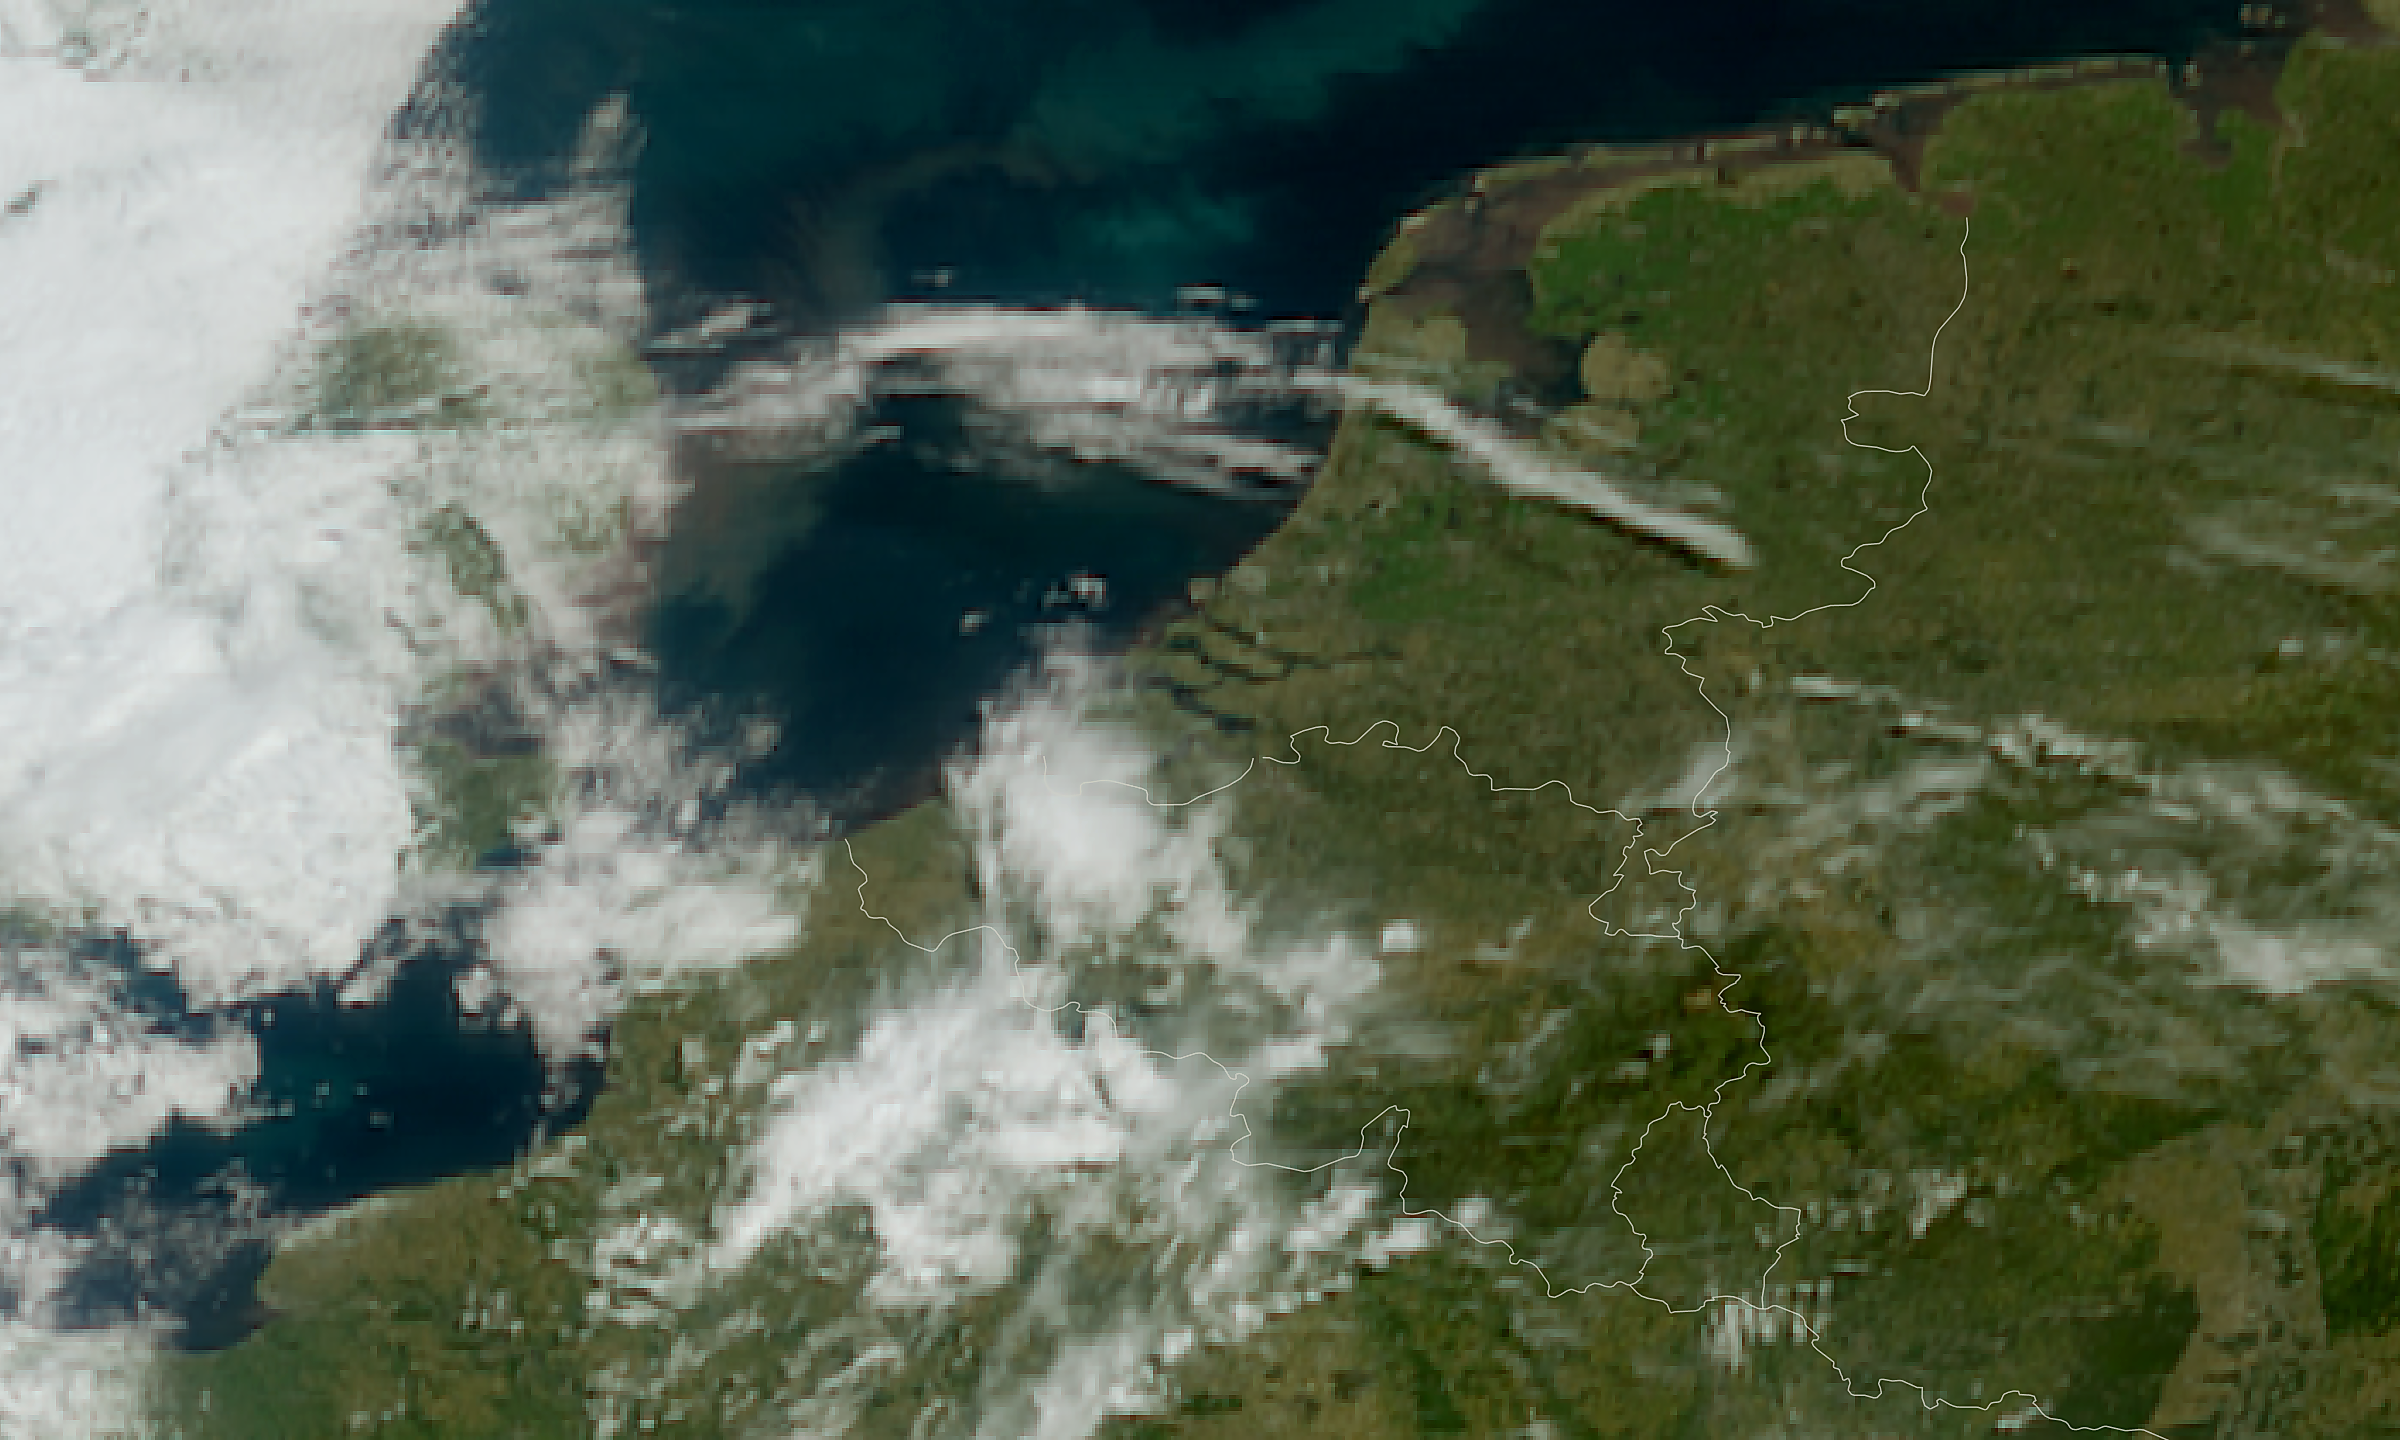
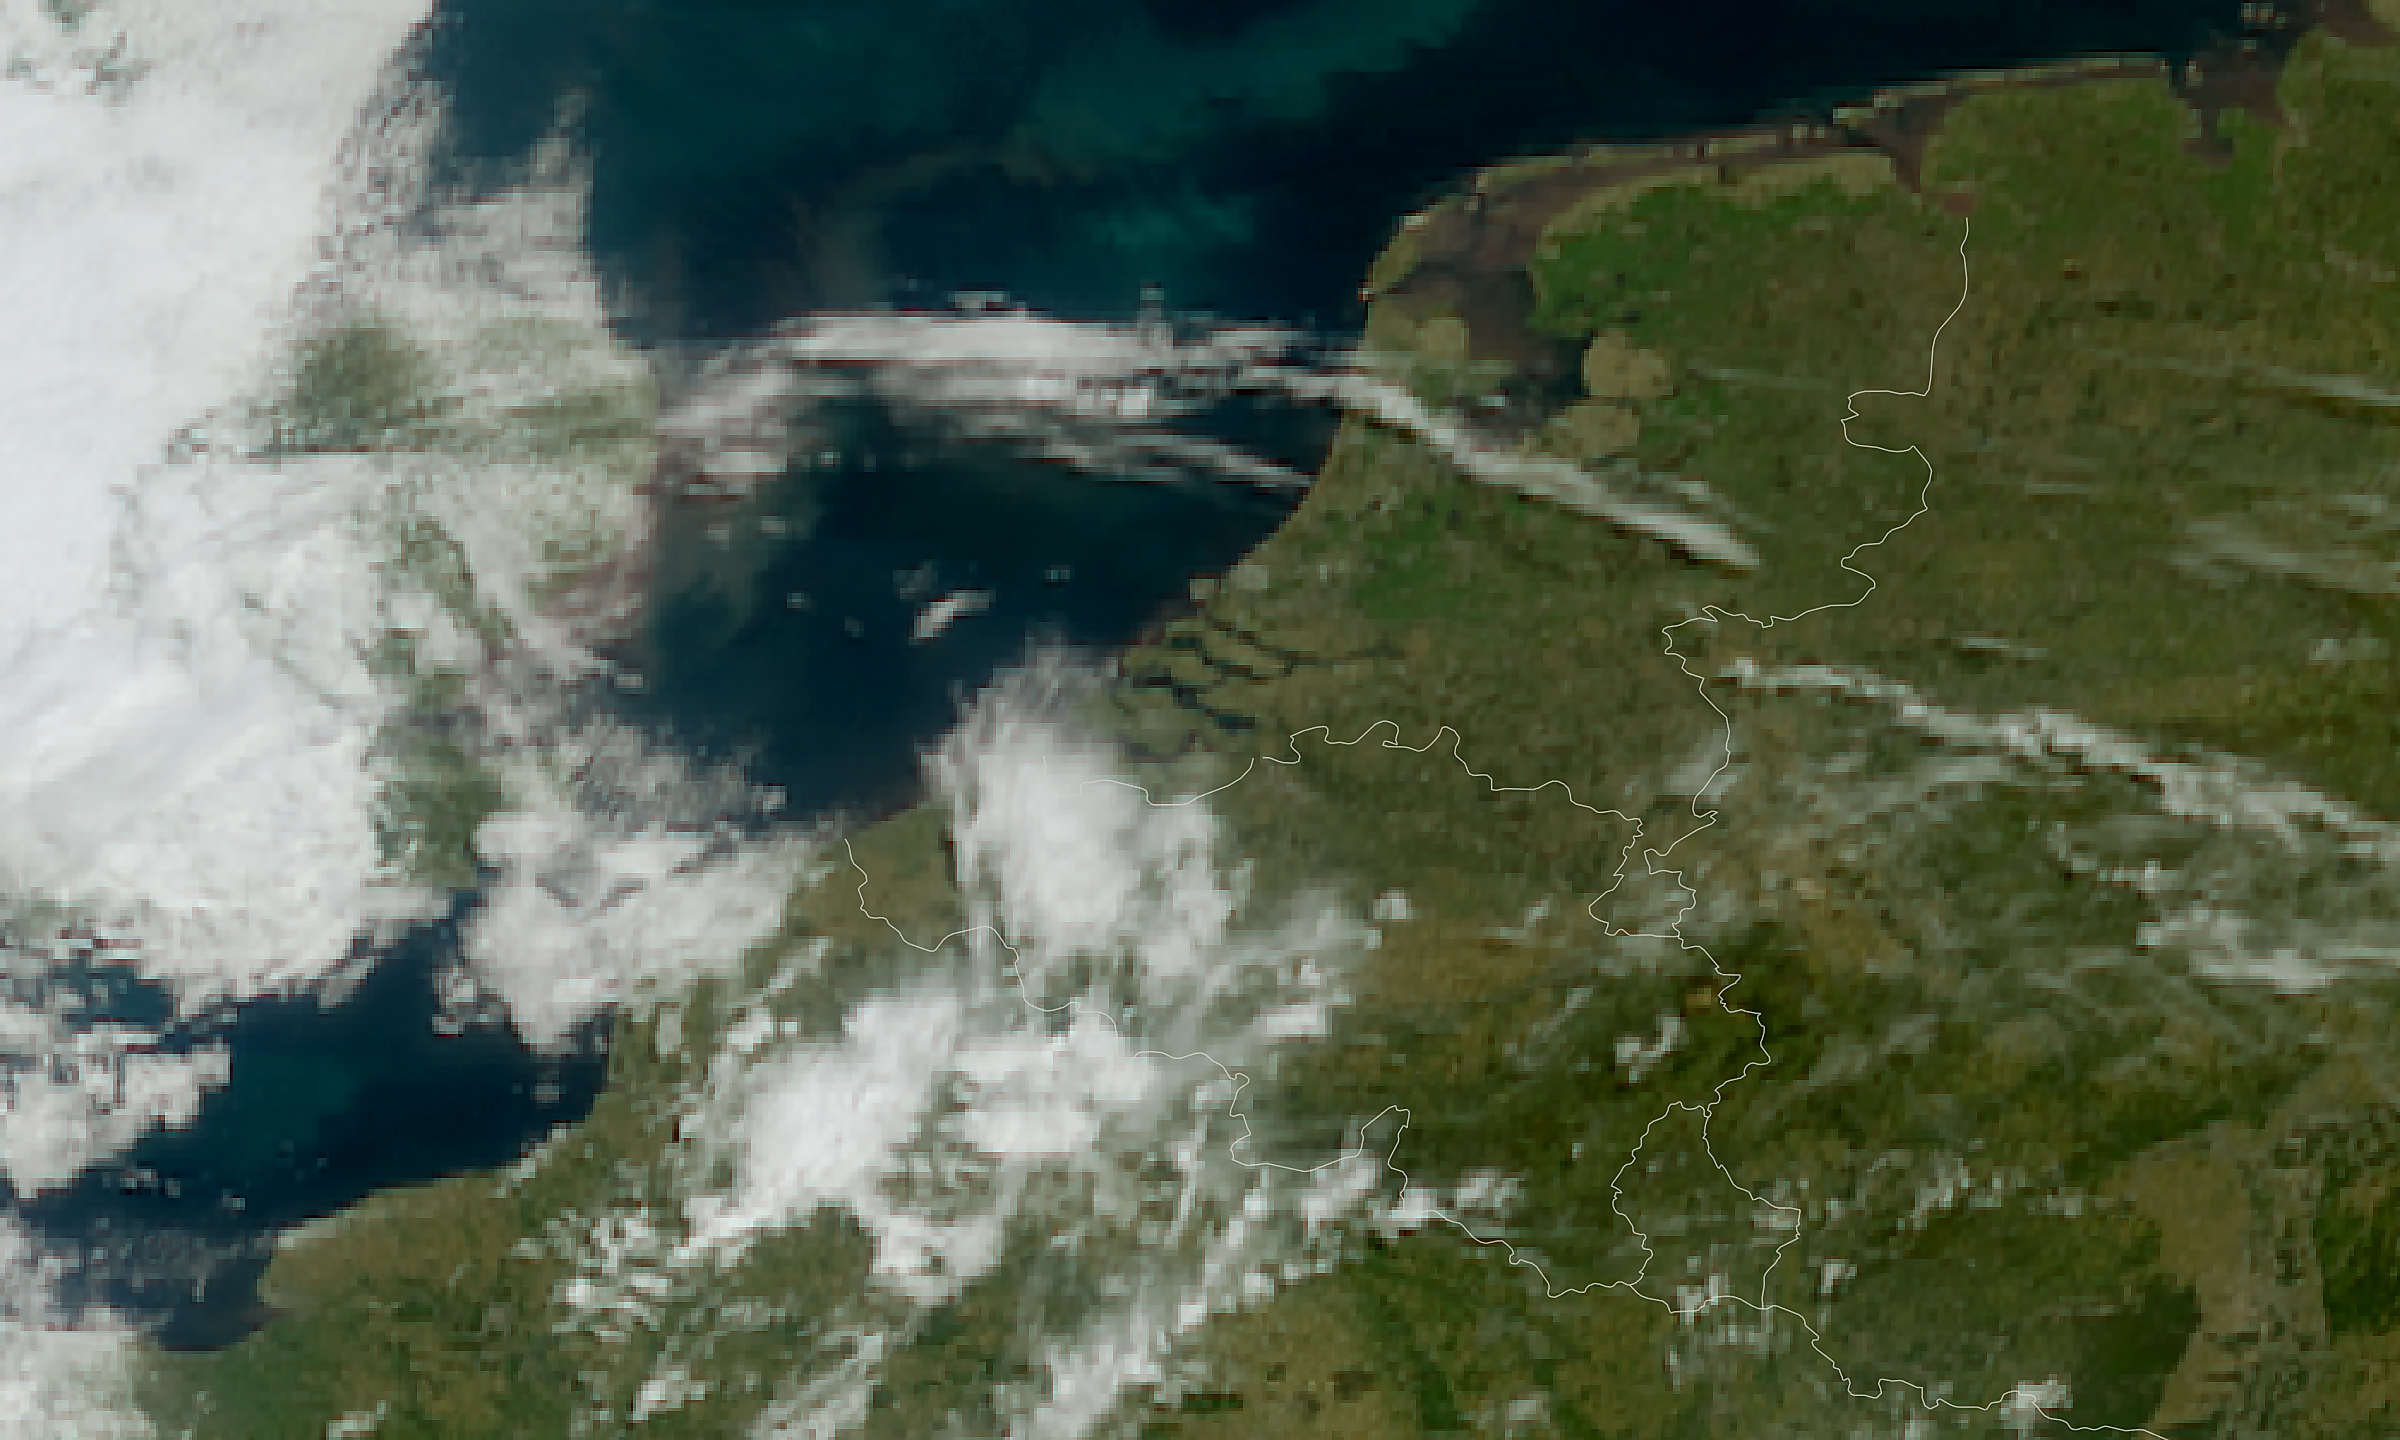
MTG Benelux satellietbeeld update 2026-04-28 12:15

diff --git a/mtg_benelux_meta.js b/mtg_benelux_meta.js
@@ -1,2 +1,2 @@
 const MTG_BENELUX_PRODUCT = "mtg_fd:rgb_truecolour";
-const MTG_BENELUX_TIJD = "2026-04-28T09:40:00Z";
+const MTG_BENELUX_TIJD = "2026-04-28T09:50:00Z";
